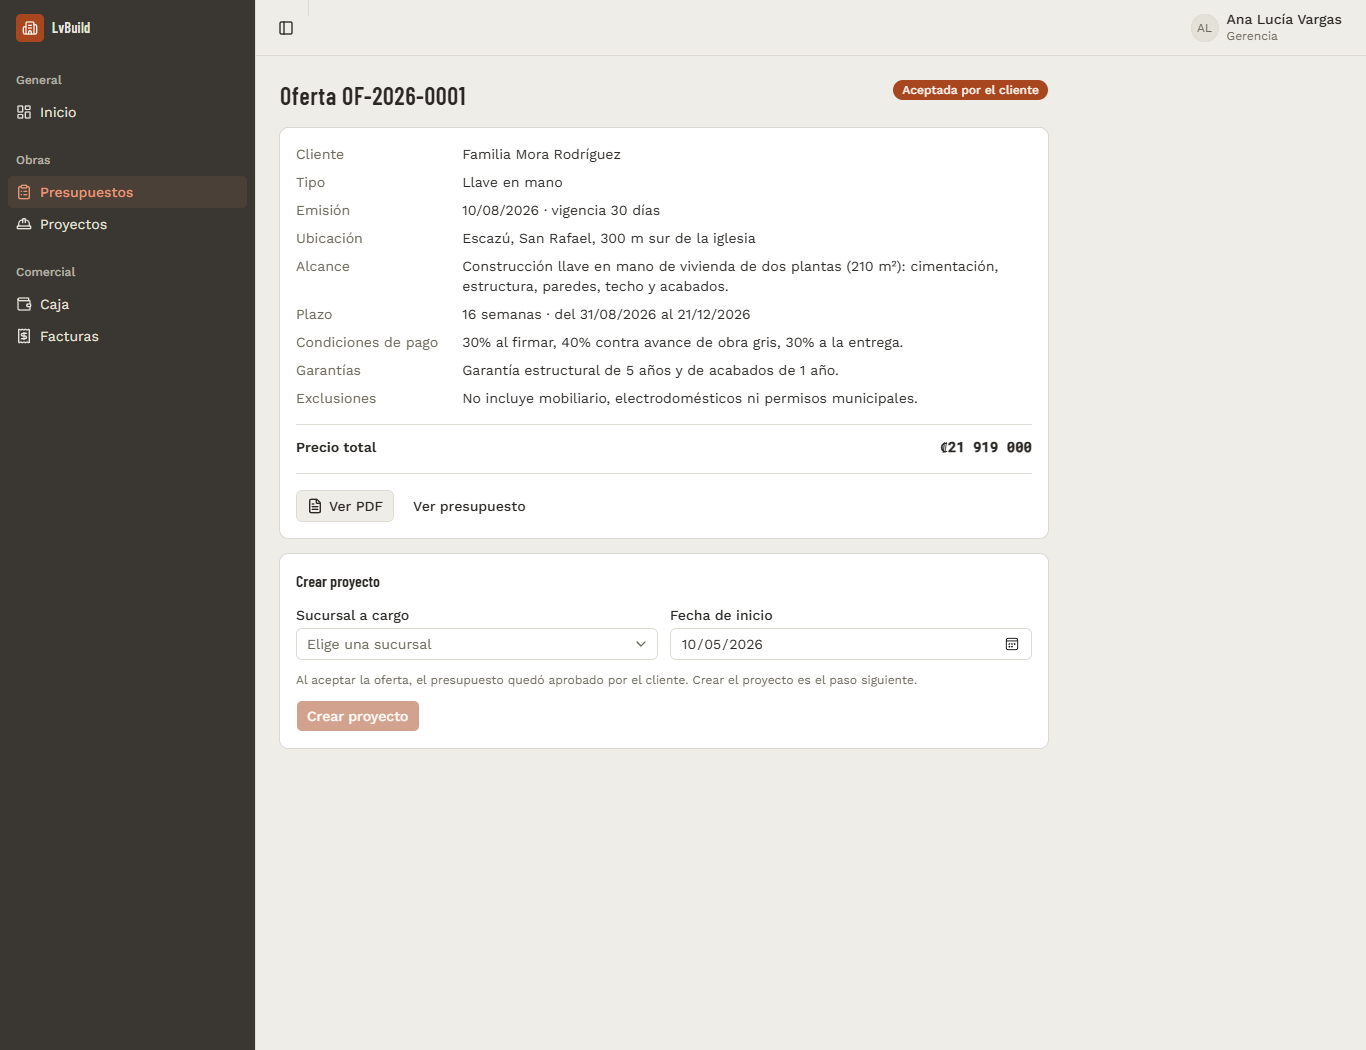
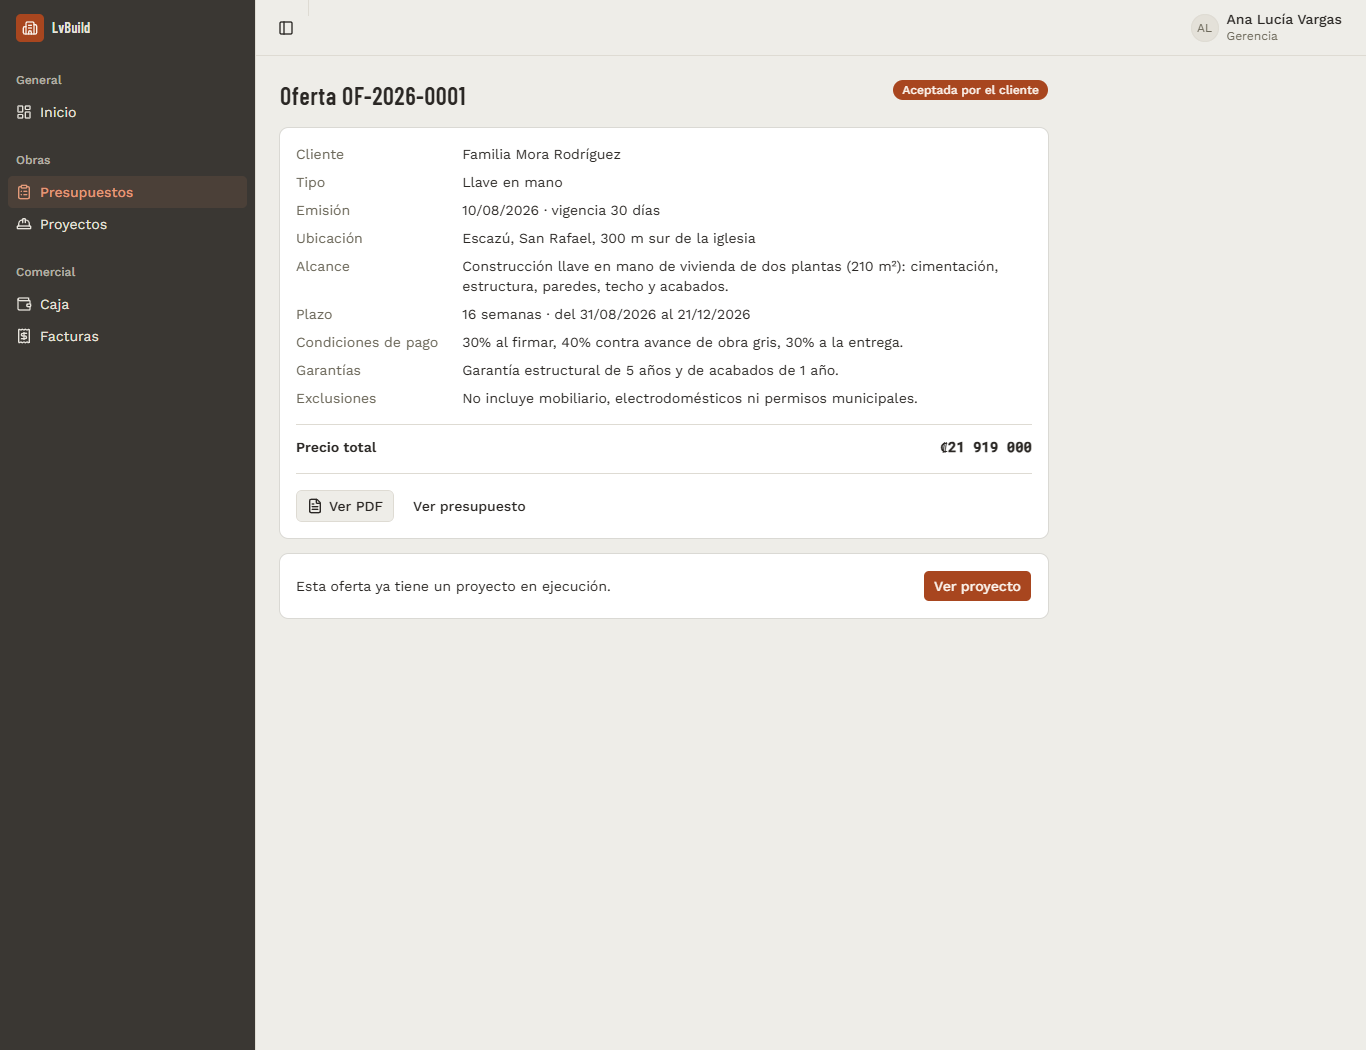
fix: link to the existing project instead of offering to create another

diff --git a/src/features/presupuestos/offer-detail-page.tsx b/src/features/presupuestos/offer-detail-page.tsx
@@ -22,7 +22,7 @@ import {
   revertOfferToDraft,
   sendOfferToClient,
 } from '@/lib/api/offers'
-import { createProject } from '@/lib/api/projects'
+import { createProject, getProjects } from '@/lib/api/projects'
 import { formatDate, todayLocalISO } from '@/lib/dates'
 import { formatCRC } from '@/lib/format'
 import { OFFER_STATUS, OFFER_TYPE_LABEL, PAYMENT_FREQUENCY_LABEL } from '@/lib/status-labels'
@@ -40,6 +40,13 @@ export function OfferDetailPage() {
   const offerQuery = useQuery({ queryKey: ['offer', offerId], queryFn: () => getOffer(offerId) })
   const branchesQuery = useQuery(catalogQueries.branches)
   const customersQuery = useQuery(catalogQueries.customers)
+  // La API no filtra proyectos por oferta: se busca en la primera página (alcanza para la demo).
+  const projectsQuery = useQuery({
+    queryKey: ['projects', 'by-offer'],
+    queryFn: () => getProjects(1, 100),
+    enabled: offerQuery.data?.status === 'ClientAccepted',
+  })
+  const existingProject = projectsQuery.data?.items.find((p) => p.offerId === offerId)
 
   const onStatusChange = (message: string) => () => {
     toast.success(message)
@@ -169,7 +176,16 @@ export function OfferDetailPage() {
         </CardContent>
       </Card>
 
-      {offer.status === 'ClientAccepted' && canDecide && (
+      {existingProject && (
+        <Card>
+          <CardContent className="flex flex-wrap items-center justify-between gap-3 text-sm">
+            <span>Esta oferta ya tiene un proyecto en ejecución.</span>
+            <ButtonLink to={`/proyectos/${existingProject.id}`}>Ver proyecto</ButtonLink>
+          </CardContent>
+        </Card>
+      )}
+
+      {offer.status === 'ClientAccepted' && canDecide && projectsQuery.isSuccess && !existingProject && (
         <Card>
           <CardHeader>
             <CardTitle>Crear proyecto</CardTitle>
